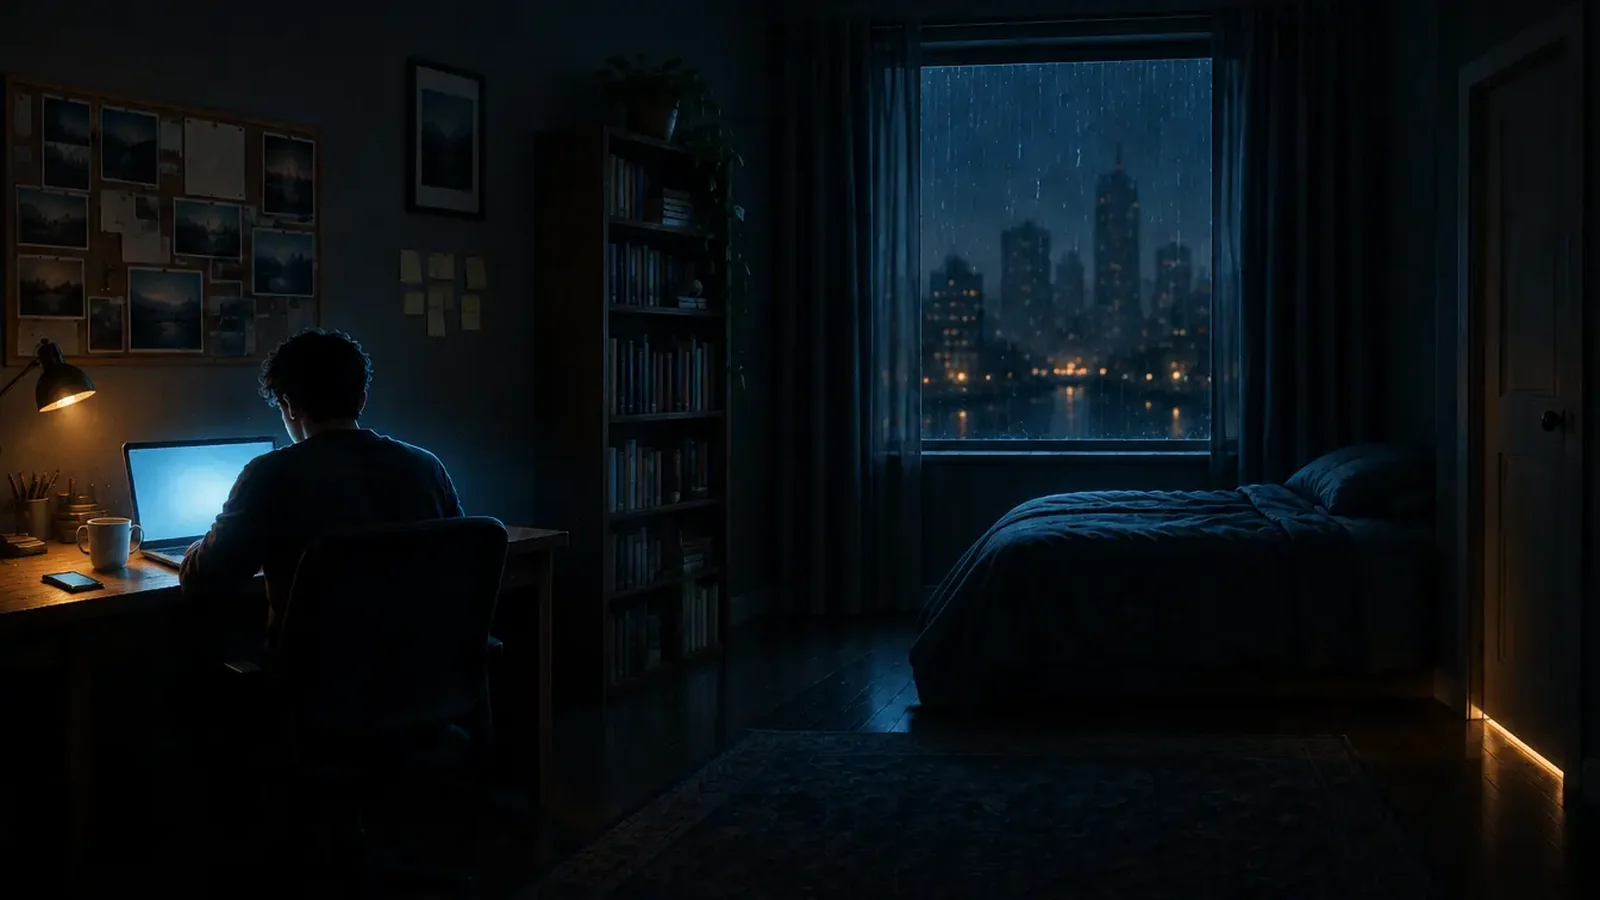
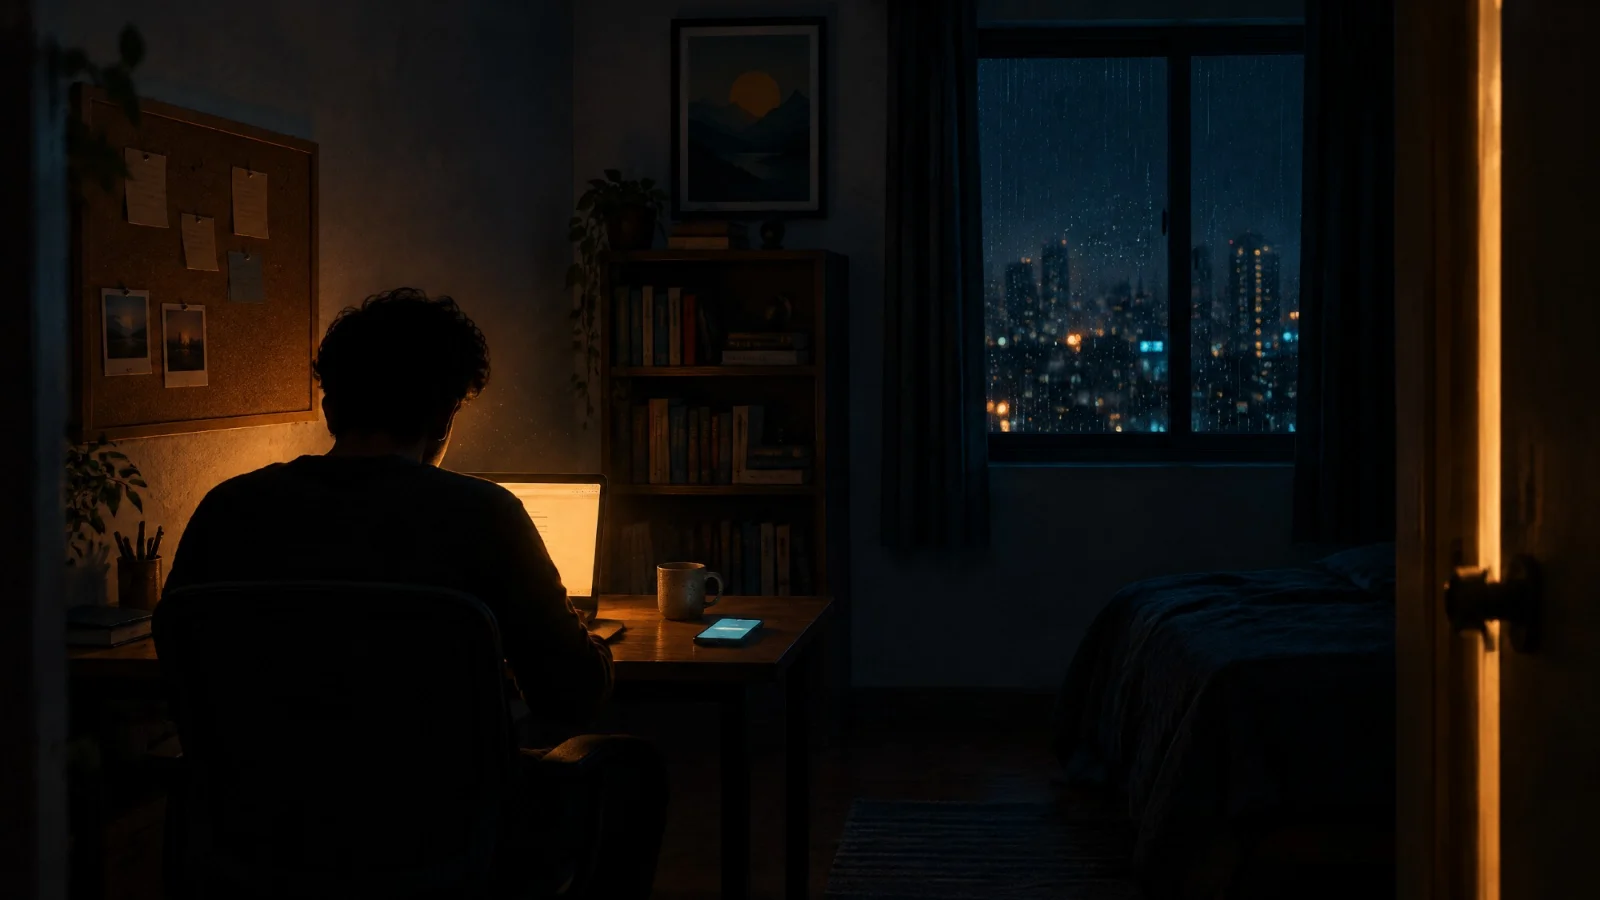
Use the new room photograph as the plate
Swaps src/assets/room-plate.webp for the supplied image, resized to the
1600x900 space the scene is authored in, and re-measures everything that was
pinned to the old picture.

The composition is different, so none of the old coordinates survived. Each
object was measured off a gridded copy of the new plate and then checked by
hovering it in the browser:

  laptop      -> What I build      corkboard notes -> About
  framed print-> Projects          the two photos  -> Leadership
  bookshelf   -> Record            mug             -> Play
  phone       -> Contact           door            -> Résumé

The corkboard now carries two hotspots: the pinned notes are About and the
photographs below them are Leadership. They do not overlap, so each is its own
find rather than a button hidden inside another button.

plateWindow moves to the new glass (980,58 320x378) so the animated rain falls
on the window instead of through the wall, and plateLights is rebuilt for this
room's lighting — warm at the laptop, the corkboard wash and the door, cool at
the window. The phone is deliberately not among them: it already glows in the
painting, and every entry is a blurred, screen-blended element the scene
re-composites whenever the parallax moves.

The rain itself is retuned for this picture. The plate has fine vertical rain
already running down the glass, so the overlay's hard diagonal at 0.55 opacity
read as scratches over it; it is near-vertical, thinner and dimmer now, with
[…]

diff --git a/src/scene/plate.ts b/src/scene/plate.ts
@@ -34,75 +34,106 @@ export interface PlateLight {
 }
 
 /**
- * In this plate the laptop is the COOL light and the desk lamp is the warm
- * one — the reverse of the SVG room. Measured off the image.
+ * Measured off the plate. In this room the warm sources are the laptop screen
+ * and the light under the door; the cool ones are the window and the phone
+ * face on the desk. That is the reverse of the SVG room, where the laptop is
+ * the cold key light.
  */
 export const plateLights: PlateLight[] = [
-  { id: 'laptop', kind: 'cool', cx: 196, cy: 498, rx: 290, ry: 240, intensity: 0.34 },
-  { id: 'lamp', kind: 'warm', cx: 58, cy: 400, rx: 230, ry: 200, intensity: 0.42 },
-  { id: 'door', kind: 'warm', cx: 1558, cy: 742, rx: 95, ry: 120, intensity: 0.5 },
-  { id: 'window', kind: 'cool', cx: 1052, cy: 250, rx: 230, ry: 205, intensity: 0.22 },
+  { id: 'laptop', kind: 'warm', cx: 556, cy: 540, rx: 200, ry: 155, intensity: 0.3 },
+  { id: 'board', kind: 'warm', cx: 210, cy: 400, rx: 235, ry: 225, intensity: 0.24 },
+  { id: 'door', kind: 'warm', cx: 1482, cy: 440, rx: 46, ry: 430, intensity: 0.5 },
+  { id: 'window', kind: 'cool', cx: 1140, cy: 250, rx: 210, ry: 200, intensity: 0.22 },
 ];
 
-/** The window glass, for the animated rain overlay. */
+/*
+ * The phone on the desk is deliberately not in that list. It already glows in
+ * the painting, and every entry here is a blurred, screen-blended element that
+ * the scene has to re-composite whenever the parallax moves — about a frame
+ * and a half each. Four earns its place; a fifth for a light already in the
+ * picture does not.
+ */
+
+/**
+ * The window glass, for the animated rain overlay — both panes and the mullion
+ * between them. The painting already has rain on the glass; this rides on top
+ * of it so the weather keeps moving.
+ */
 export const plateWindow: { x: number; y: number; w: number; h: number } | null = {
-  x: 898,
-  y: 28,
-  w: 320,
-  h: 436,
+  x: 980,
+  y: 58,
+  w: 322,
+  h: 378,
 };
 
 /**
- * Hotspot boxes measured off the plate. The objects sit in different places
- * than they do in the SVG scene, so the plate carries its own set.
+ * Hotspot boxes measured off the plate, in its own 1600 x 900 pixel space.
+ *
+ * The corkboard carries two of them: the pinned notes are About, the two
+ * photographs below them are Leadership. They do not overlap, so each is its
+ * own find rather than a button hidden inside another button.
+ *
+ * Deliberately NOT hotspots: the window (ambient only), the bed, and the
+ * plants. If everything is clickable, nothing is a discovery.
  */
 export const plateHotspots: HotspotDef[] = [
   {
     id: 'build',
     label: 'What I build',
     description: 'What I build — services, the product flow and how an engagement works',
-    x: 140, y: 422, w: 134, h: 156, depth: 0.15, order: 1,
+    // The lit laptop screen, from the edge of the silhouette to its right bezel.
+    x: 500, y: 474, w: 104, h: 128, depth: 0.15, order: 1,
   },
   {
     id: 'projects',
     label: 'Projects',
     description: 'Projects shipped — six builds with repositories and live demos',
-    x: 404, y: 54, w: 88, h: 168, depth: 0.15, order: 2,
+    // The framed print above the bookshelf.
+    x: 670, y: 14, w: 158, h: 190, depth: 0.15, order: 2,
   },
   {
     id: 'record',
     label: 'Record',
     description: 'Record — education and work history',
-    x: 528, y: 118, w: 200, h: 380, depth: 0.15, order: 3,
+    // The bookshelf: from the objects on its top board down to the desk,
+    // stopping short of the mug.
+    x: 606, y: 232, w: 232, h: 322, depth: 0.15, order: 3,
   },
   {
     id: 'about',
     label: 'About',
     description: 'About me — background and the facts',
-    x: 0, y: 72, w: 338, h: 288, depth: 0.15, order: 4,
+    // The pinned notes on the corkboard.
+    x: 100, y: 118, w: 220, h: 158, depth: 0.15, order: 4,
   },
   {
     id: 'leadership',
     label: 'Leadership',
     description: 'Leadership and community roles',
-    x: 400, y: 246, w: 96, h: 80, depth: 0.15, order: 5,
+    // The two photographs pinned below the notes.
+    x: 98, y: 284, w: 118, h: 102, depth: 0.15, order: 5,
   },
   {
     id: 'play',
     label: 'Play',
     description: 'Play — browser games and the toolkit',
-    x: 82, y: 500, w: 58, h: 54, depth: 0.15, order: 6,
+    // The mug.
+    x: 654, y: 556, w: 62, h: 58, depth: 0.15, order: 6,
   },
   {
     id: 'contact',
     label: 'Contact',
     description: 'Contact — book a thirty minute call',
-    x: 30, y: 556, w: 80, h: 44, depth: 0.15, order: 7,
+    // The phone face-up on the desk, the one cool light in the room.
+    x: 692, y: 616, w: 74, h: 38, depth: 0.15, order: 7,
   },
   {
     id: 'resume',
     label: 'Résumé',
     description: 'Résumé and links out',
-    x: 1400, y: 40, w: 200, h: 740, depth: 0.15, order: 8,
+    // The door: the strip of hall light, its handle, and the leaf around them.
+    // Wide on purpose — at portrait width the scene renders about a quarter
+    // size, so a box hugging the 25px strip would be a 6px tap target.
+    x: 1396, y: 56, w: 200, h: 788, depth: 0.15, order: 8,
   },
 ];

diff --git a/src/scene/plateVeil.ts b/src/scene/plateVeil.ts
@@ -2,20 +2,20 @@
  * The room, reduced to 48x27 pixels and pre-graded.
  *
  * While a section is open the room sits behind it as a soft, dark blur. Doing
- * that with `filter: blur(14px) brightness(0.4)` means the browser re-filters
+ * that with `filter: blur(14px) brightness(...)` means the browser re-filters
  * the whole viewport on every frame the page composites — and with a game
  * running on top, that is every frame. Measured in a software-rasterising
  * browser it cost about 44 of the 60 frames per second available.
  *
  * So both the blur and the grade are baked instead of computed. This is the
- * painted plate drawn into a 48x27 canvas under `brightness(0.4)
- * saturate(0.7)`; stretched back across the viewport, the interpolation *is*
+ * painted plate drawn into a 48x27 canvas under `brightness(0.85)
+ * saturate(0.84)`; stretched back across the viewport, the interpolation *is*
  * the blur. It costs one small texture on upload and nothing per frame.
  *
  * Regenerate it by drawing `room-plate.webp` into a 48x27 canvas with
- * `ctx.filter = 'brightness(0.4) saturate(0.7)'` and taking
+ * `ctx.filter = 'brightness(0.85) saturate(0.84)'` and taking
  * `toDataURL('image/webp', 0.85)`. Keep it under about 2 kB: it is inline, so
  * its weight is parse cost on every load.
  */
 export const plateVeil =
[2 lines of base64/hex data omitted]

diff --git a/src/scene/layers/PlateLayer.tsx b/src/scene/layers/PlateLayer.tsx
@@ -14,12 +14,18 @@ interface Props {
   lampOn: boolean;
 }
 
-/** Deterministic rain, laid over wherever the painting's window is. */
-const RAIN = Array.from({ length: 26 }, (_, i) => ({
-  t: (i * 37) % 100,
-  delay: (i * 0.37) % 4.4,
+/**
+ * Deterministic rain, laid over wherever the painting's window is.
+ *
+ * Deterministic rather than random so the pattern is identical on every load
+ * and between the two art paths. The spread of delays and durations is what
+ * stops thirty-odd drops reading as a repeating band.
+ */
+const RAIN = Array.from({ length: 34 }, (_, i) => ({
+  t: (i * 29) % 100,
+  delay: (i * 0.31) % 4.6,
   dur: 2.4 + ((i * 7) % 13) / 10,
-  len: 14 + ((i * 11) % 20),
+  len: 10 + ((i * 11) % 16),
 }));
 
 export function PlateLayer({ lampOn }: Props) {
@@ -51,10 +57,10 @@ export function PlateLayer({ lampOn }: Props) {
               key={i}
               x1={win.x + (win.w * d.t) / 100}
               y1={win.y}
-              x2={win.x + (win.w * d.t) / 100 - 6}
+              x2={win.x + (win.w * d.t) / 100 - 2}
               y2={win.y + d.len}
               stroke="#9fd4f0"
-              strokeWidth="1.1"
+              strokeWidth="0.9"
               opacity="0.2"
               className="raindrop"
               style={{ animationDelay: `${d.delay}s`, animationDuration: `${d.dur}s` }}

diff --git a/src/scene/room.css b/src/scene/room.css
@@ -210,11 +210,14 @@
   opacity: 0;
   animation: rain-fall linear infinite;
 }
+/* Nearly vertical, and quiet. The plate already has rain running down the
+   glass; this rides on it to keep it moving, so a hard diagonal at full
+   opacity reads as scratches on the picture rather than weather. */
 @keyframes rain-fall {
   0%   { opacity: 0; transform: translate3d(0, 0, 0); }
-  8%   { opacity: 0.55; }
-  88%  { opacity: 0.55; }
-  100% { opacity: 0; transform: translate3d(-34px, 440px, 0); }
+  10%  { opacity: 0.34; }
+  86%  { opacity: 0.34; }
+  100% { opacity: 0; transform: translate3d(-7px, 460px, 0); }
 }
 
 /* Drops clinging to the glass: they hang, then break and run down fast,

diff --git a/ASSETS.md b/ASSETS.md
@@ -7,9 +7,10 @@ file.
 
 | Asset | Form | Location |
 | --- | --- | --- |
-| Room artwork | Painted plate, 1600 × 900 WebP, 51.8 kB | `src/assets/room-plate.webp` |
+| Room artwork | Painted plate, 1600 × 900 WebP, 53 kB | `src/assets/room-plate.webp` |
 | Room artwork (alternative) | Hand-built SVG, five parallax layers | `src/scene/layers/*.tsx` |
 | Arcade artwork | None — drawn at runtime on canvas | `src/game/*/`*Renderer*`.ts` |
+| Dimmed-room backdrop | 48 × 27 baked copy of the plate, inline, ~1.1 kB | `src/scene/plateVeil.ts` |
 | Favicon | Inline SVG data URI | `index.html` |
 | Fonts | Instrument Serif + Inter, Google Fonts | `index.html` |
 | S-mark logo | **Not present.** See below. | — |
@@ -22,10 +23,26 @@ The live scene is the painted plate at `src/assets/room-plate.webp`, imported by
 rectangle the rain is clipped to are all measured against that image in
 `plateHotspots`, `plateLights` and `plateWindow`.
 
-Swapping the artwork means resizing the new image to 1600 × 900, saving it to
-the same path, and re-measuring those three lists. Nothing downstream — the
-parallax, the portrait reframing, the menus, the keyboard order — needs to
-change. `README.md` has the full procedure.
+**Swapping the artwork is four steps, and the fourth is easy to miss:**
+
+1. Resize the new image to exactly 1600 × 900 and save it to the same path.
+   The plate is drawn into a 1600 × 900 space, so image pixels map 1:1 onto
+   scene coordinates — what you measure in the picture is what you write down.
+2. Re-measure `plateHotspots`, `plateLights` and `plateWindow` in
+   `src/scene/plate.ts`. **These are per-image.** Swapping the picture without
+   redoing them leaves every hotspot floating over the wrong object and the
+   rain falling through a wall.
+3. Regenerate `src/scene/plateVeil.ts` — the 48 × 27 baked backdrop shown
+   behind open sections. It is a copy of *this* plate; leave it and the room
+   behind a section will be the previous room. Its own file documents how, and
+   the grade needs checking against the new image: a darker picture needs a
+   higher `brightness()` to stay visible behind the panel at all.
+4. Check the result with the boxes drawn on. Hovering each object and seeing
+   the rim land on it is the only reliable test — the coordinates look fine in
+   a diff whether they are right or wrong.
+
+Nothing else downstream — the parallax, the portrait reframing, the menus, the
+keyboard order — needs to change. `README.md` has the same procedure in place.
 
 The hand-built SVG room is still in the tree as the alternative art path and
 takes over automatically if `plateSrc` is null or `plateHotspots` is empty.

diff --git a/README.md b/README.md
@@ -93,6 +93,9 @@ the number you write in `src/scene/plate.ts`. To swap the artwork:
    width, height in image pixels.
 3. Update `plateLights` (the blooms that breathe) and `plateWindow` (where the
    animated rain is clipped to) the same way.
+4. Regenerate `src/scene/plateVeil.ts`, the baked backdrop shown behind open
+   sections — it is a shrunk copy of the plate and will otherwise still show
+   the old room. See `ASSETS.md`, which spells the whole swap out.
 
 Nothing else needs to change: the parallax, the portrait reframing, the
 sections and the menus all read from those coordinates.
